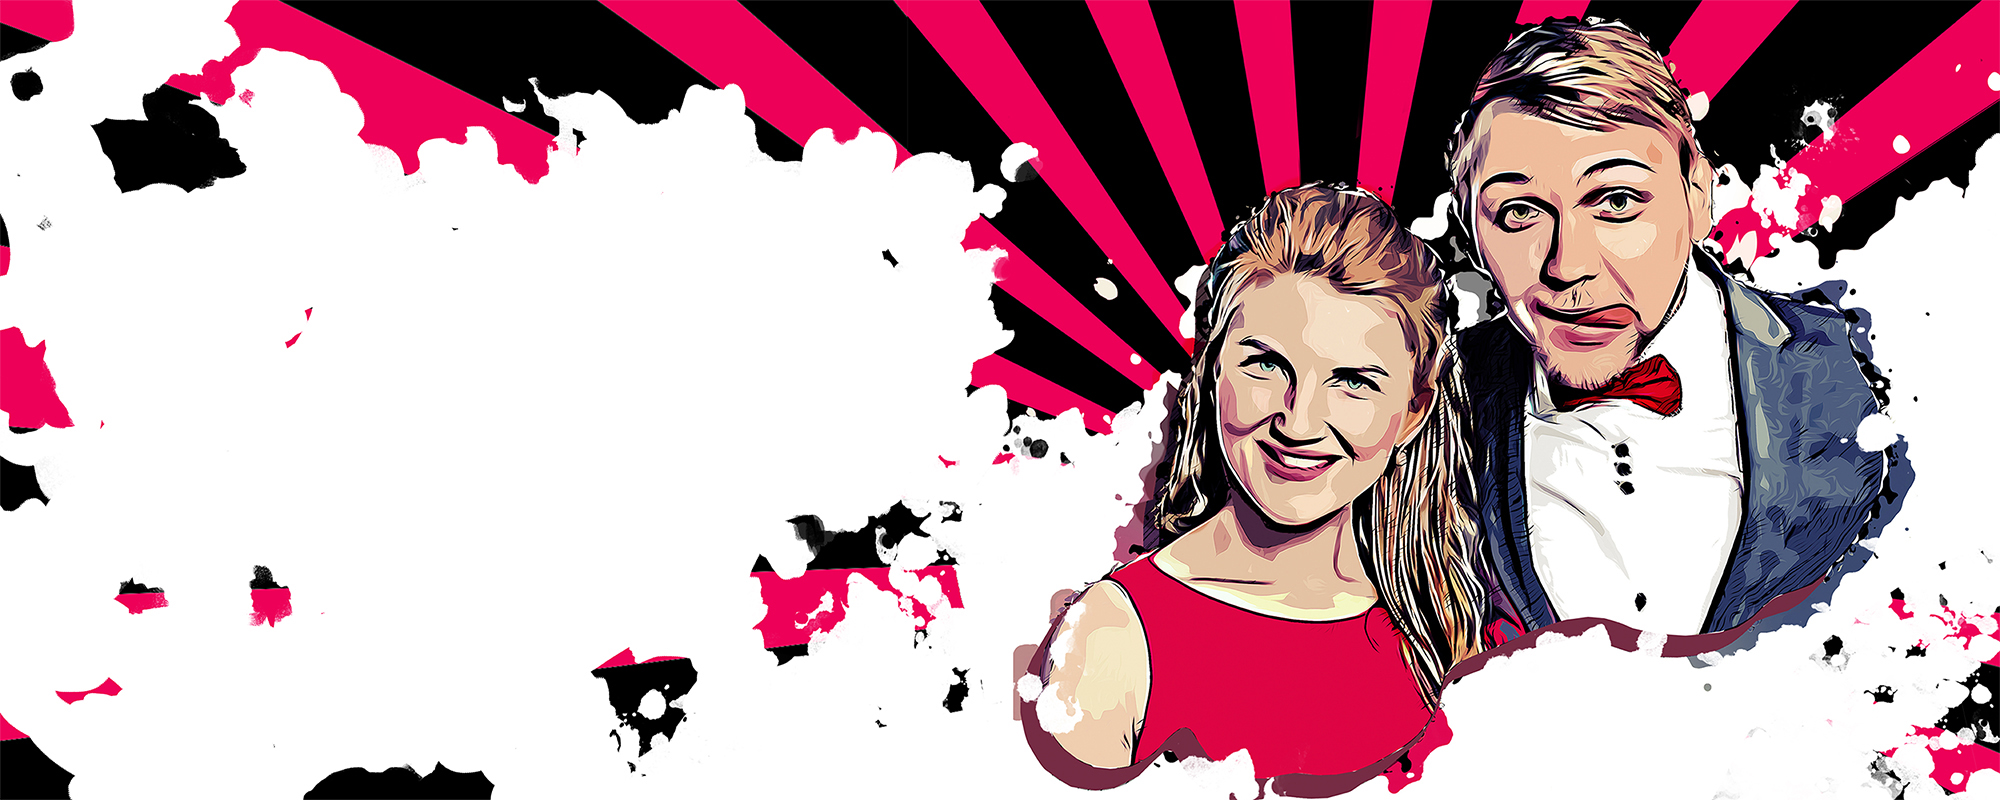
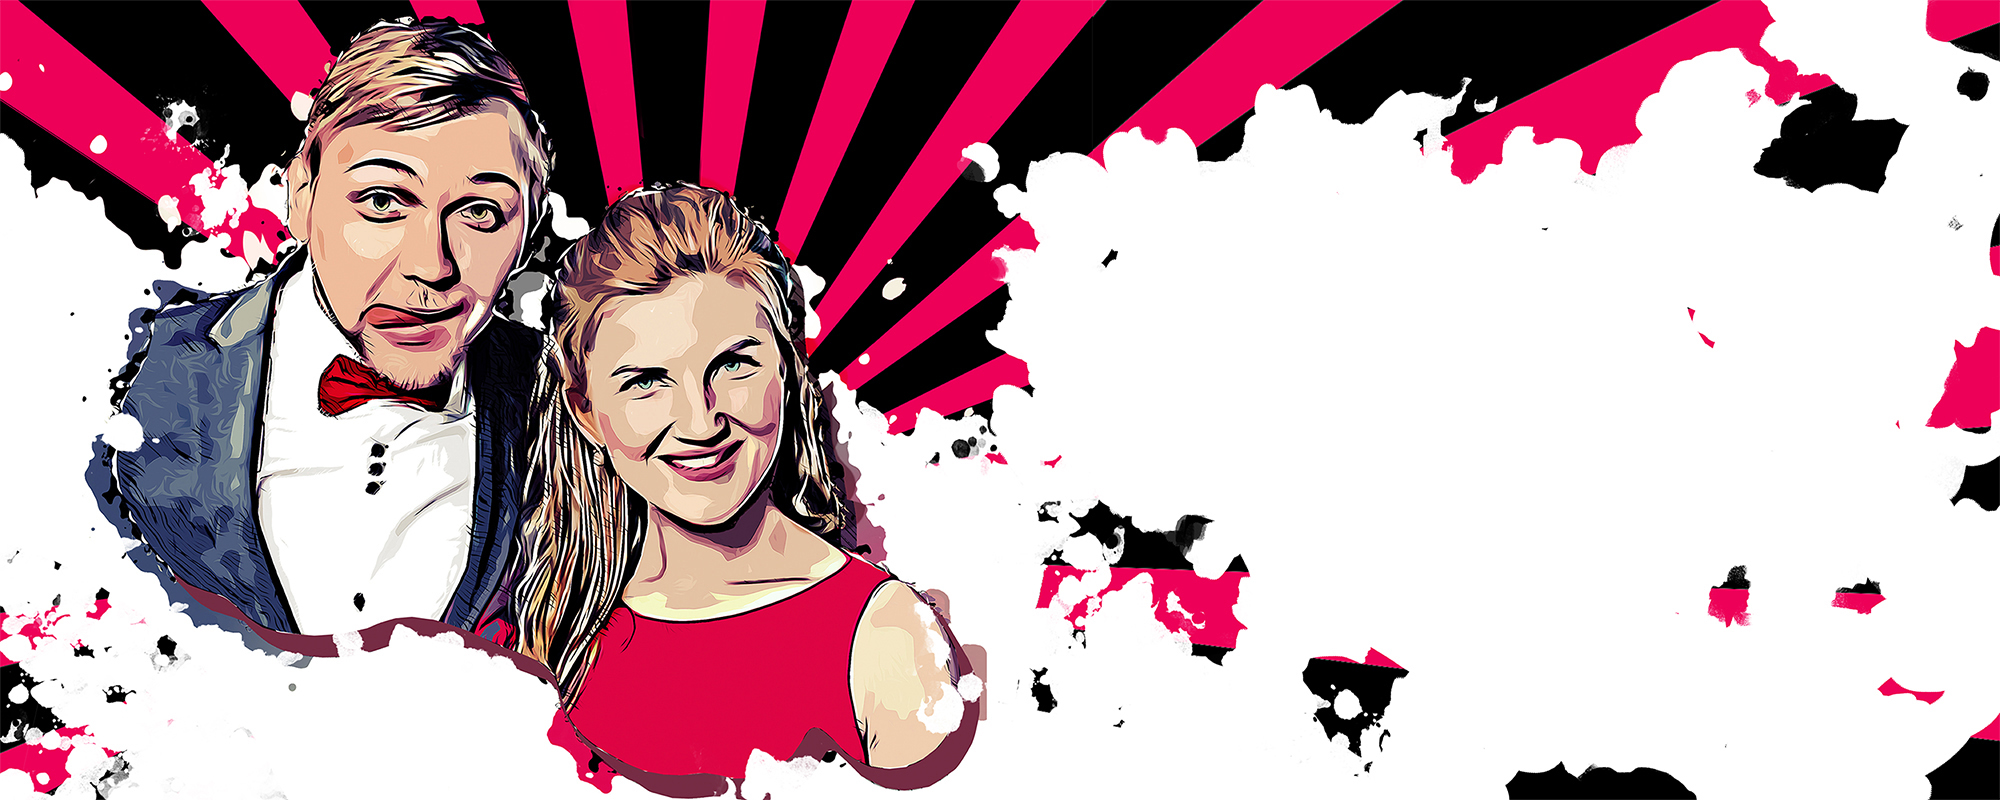
123

diff --git a/popart.html b/popart.html
@@ -136,7 +136,7 @@
     <main>  
     <!-- hero -->
         <div class="hero-image popart">
-            <div class="hero-text">
+            <div class="hero-text--style">
                     <div class="hero-text__list">
                         <h3>Портрет в стиле POP ART</h3>
                         <small>Вы заплатите за картину только в том случае, если она вам понравится</small>
@@ -149,49 +149,90 @@
         </div>
     </main>
 
-    <section>
+    <section class="animate">
         calc
     </section>
 
     <section class="text--center">
-        До и После
+        <h3 class="text--bold">До и После</h3>
         <div class="style--container">
             <div class="style--slide1" style="background-image: url(img/examples/example7.jpg);"></div>
             <div class="style--slide2" style="background-image: url(img/examples/example7_X.jpg);">
                 <div class="style--line"></div>
             </div>
         </div>
-    </section>
-
-    <section class="text--center">
-        Галерея
-        <div class="row">
-            <div class="col-md-4">
-                <img src="img/examples/example7.jpg" alt="Портрет в стиле Pop Art #1" class="image">
+        <div class="style--container">
+            <div class="style--slide1" style="background-image: url(img/popart.jpg);"></div>
+            <div class="style--slide2" style="background-image: url(img/popart_X.jpg);">
+                <div class="style--line"></div>
             </div>
-            <div class="col-md-4">
-                <img src="img/examples/example7.jpg" alt="Портрет в стиле Pop Art #1" class="image">
-            </div>
-            <div class="col-md-4">
-                <img src="img/examples/example7.jpg" alt="Портрет в стиле Pop Art #1" class="image">
+        </div>
+        <div class="style--container">
+            <div class="style--slide1" style="background-image: url(img/popart1.jpg);"></div>
+                <div class="style--slide2" style="background-image: url(img/popart1_x.jpg);">
+                <div class="style--line"></div>
             </div>
         </div>
     </section>
 
-    <section class="section--bg text--center">
-        Вам также могут понравиться 
-        <section>
-            <div class="row">
-                <div class="col-md-4">
-                    <img src="img/examples/example7.jpg" alt="Портрет в стиле Pop Art #1" class="image">
-                </div>
-                <div class="col-md-4">
-                    <img src="img/examples/example7.jpg" alt="Портрет в стиле Pop Art #1" class="image">
-                </div>
-                <div class="col-md-4">
-                    <img src="img/examples/example7.jpg" alt="Портрет в стиле Pop Art #1" class="image">
-                </div>
+    <section class="text--center">
+        <h3 class="text--bold">Галерея</h3>
+        <div class="row">
+            <div class="col-md-4">
+                <img src="img/popart/popart2.jpg" alt="Портрет в стиле Pop Art #1" class="image popart--image">
             </div>
+            <div class="col-md-4">
+                <img src="img/popart/popart3.jpg" alt="Портрет в стиле Pop Art #1" class="image popart--image">
+            </div>
+            <div class="col-md-4">
+                <img src="img/popart/popart4.jpg" alt="Портрет в стиле Pop Art #1" class="image popart--image">
+            </div>
+        </div>
+        <div class="row">
+            <div class="col-md-4">
+                <img src="img/popart/popart5.jpg" alt="Портрет в стиле Pop Art #1" class="image popart--image">
+            </div>
+            <div class="col-md-4">
+                <img src="img/popart/popart6.jpg" alt="Портрет в стиле Pop Art #1" class="image popart--image">
+            </div>
+            <div class="col-md-4">
+                <img src="img/popart/popart7.jpg" alt="Портрет в стиле Pop Art #1" class="image popart--image">
+            </div>
+        </div>
+    </section>
+
+    <section class="section--bg offer" style="margin-bottom: 0;">
+        <section>
+        <h3 class="text--bold">Вам также могут понравиться </h3>
+             <div class="row">
+                <div class="col-md-4">
+                    <div class="offer--card">
+                        <img src="img/examples/example7.jpg" alt="Портрет в стиле Pop Art #1" class="image offer--image">
+                        <div class="offer--text">
+                            <h5>POP ART</h5>
+                            <p>от 1200 Р</p>
+                        </div>
+                    </div>
+                </div>
+                <div class="col-md-4">
+                    <div class="offer--card">
+                        <img src="img/examples/example7.jpg" alt="Портрет в стиле Pop Art #1" class="image offer--image">
+                        <div class="offer--text">
+                            <h5>POP ART</h5>
+                            <p>от 1200 Р</p>
+                        </div>
+                    </div>
+                </div>
+                <div class="col-md-4">
+                    <div class="offer--card">
+                        <img src="img/examples/example7.jpg" alt="Портрет в стиле Pop Art #1" class="image offer--image">
+                        <div class="offer--text">
+                            <h5>POP ART</h5>
+                            <p>от 1200 Р</p>
+                        </div>
+                    </div>
+                </div>
+            </div> 
         </section>
     </section>
 

diff --git a/popart.css b/popart.css
@@ -1,6 +1,7 @@
 .popart {
     background-image: url("img/examples/example7_hero.jpg");
     background-size: cover;
+    background-position: left;
 }
 
 .hero-text__list {
@@ -14,18 +15,58 @@
 
 .style--container {
     margin: auto;
+    margin-top: 32px;
+}
+
+.popart--image {
+    height: 360px;
+    object-fit: cover;
+}
+
+.section--bg {
+    background: #6394FF;
+    color: white;
+    overflow: hidden;
+}
+
+.offer--card {
+    background: white;
+    color: #131313;
+    border-radius: 1rem;
+    padding-bottom: 16px;
+    box-shadow: 0px 0px 16px white;
+}
+
+.offer--image {
+    height: 320px;
+    object-fit: cover;
+}
+
+.section--bg {
+    padding-top: 0;
+    padding-bottom: 0;
+}
+
+.offer--text {
+    margin-top: 16px;
+    padding-left: 32px;
 }
 
 @media only screen and (max-width: 900px) {
     .popart {
         background-image: url("img/examples/example7_hero.jpg");
         background-size: cover;
-        background-position-x: 78%;
+        background-position-x: 20%;
         margin-bottom: 360px;
     }
 
-    .hero-text {
+    .hero-text--style {
         top: 50%;
         z-index: 2;
     } 
+
+    .style--slide2 {
+        display: block;
+        background-position: center;
+    }
 }

diff --git a/components.css b/components.css
@@ -152,6 +152,18 @@ ul {
     color: white;
 }
 
+.hero-text--style {
+    position: absolute;
+    top: 49%;
+    right: 8%;
+    transform: translate(0%, -50%);
+    color: white;
+}
+
+.hero-text--style h3 {
+    font-weight: 600;
+}
+
 .hero-text h3 {
     font-weight: 600;
 }
@@ -278,6 +290,16 @@ section img {
         transform: translate(0, 0);
         color: white;
         }
+        .hero-text--style {
+            text-align: left;
+            position: relative;
+            width: 100%;
+            height: 100%;
+            top: 0;
+            left: 0;
+            transform: translate(0, 0);
+            color: white;
+            }
         .hero-text img {
             position: absolute;
             width: 100%;
